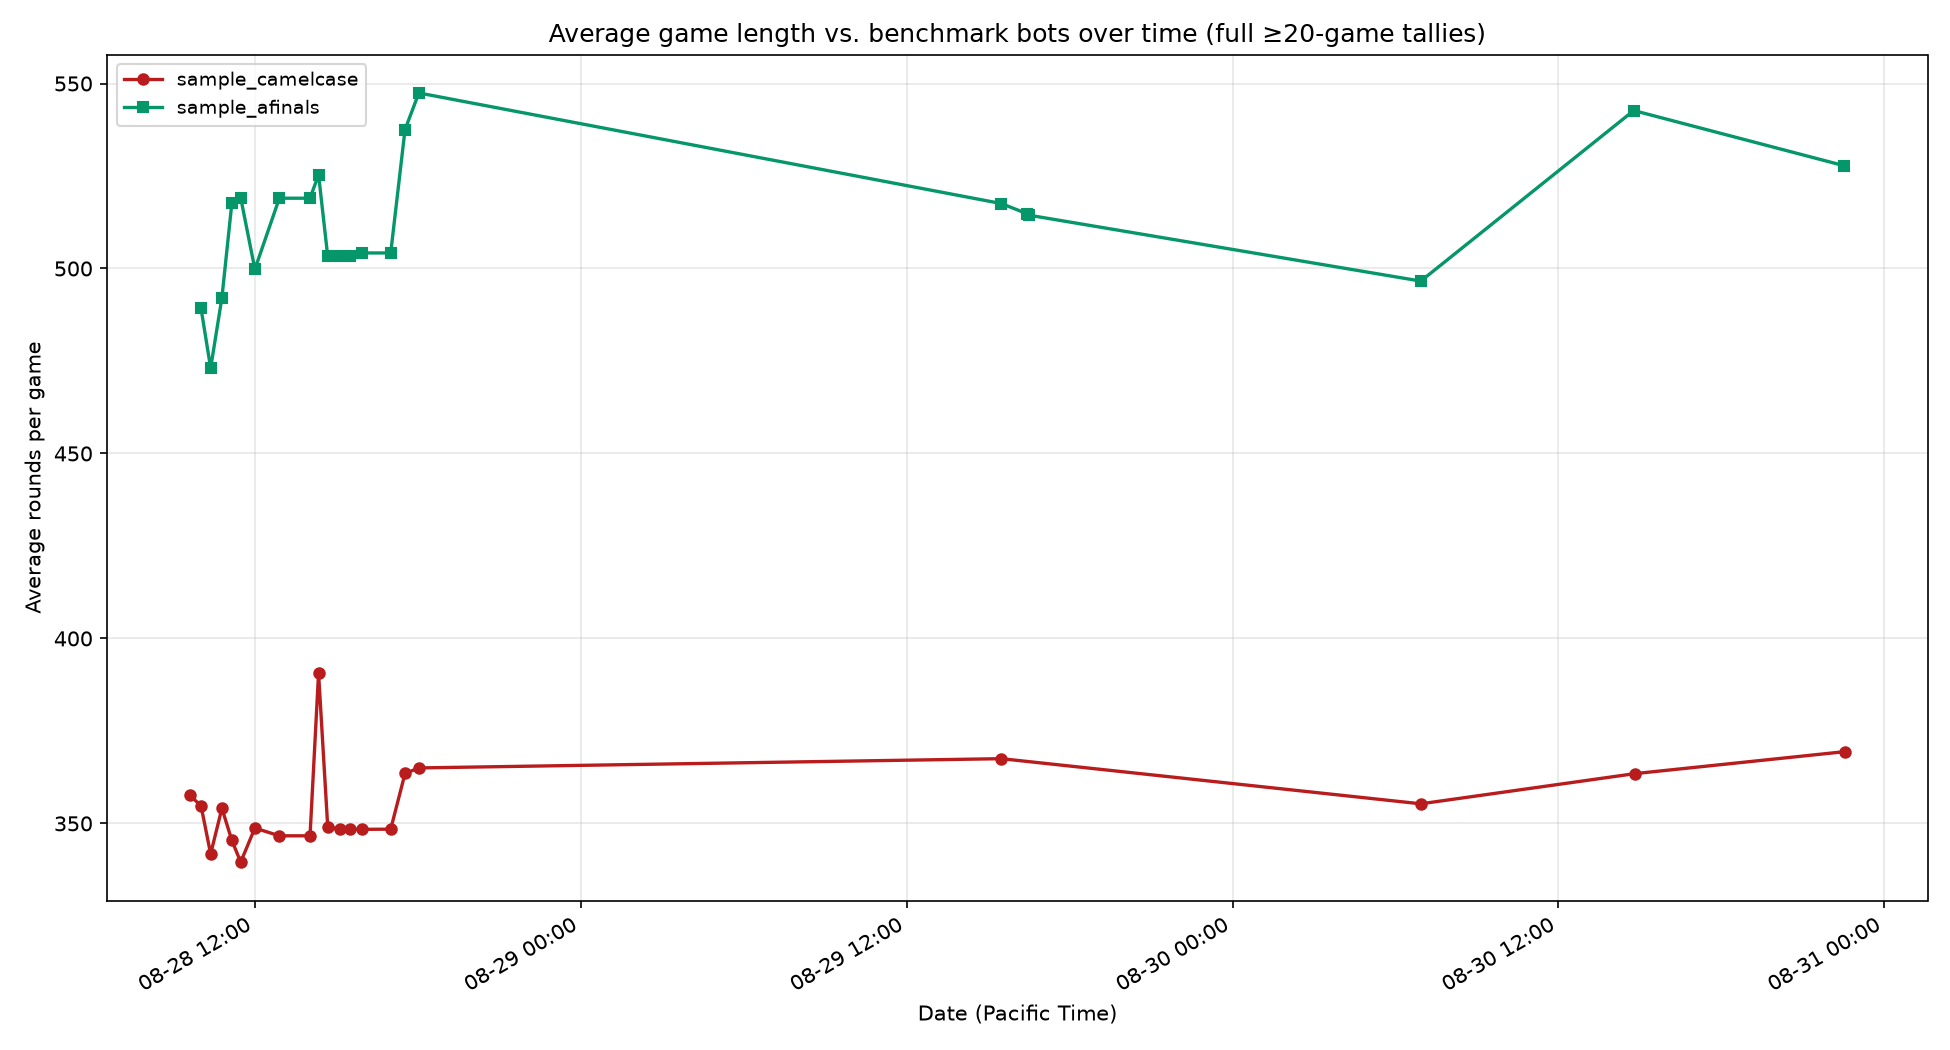
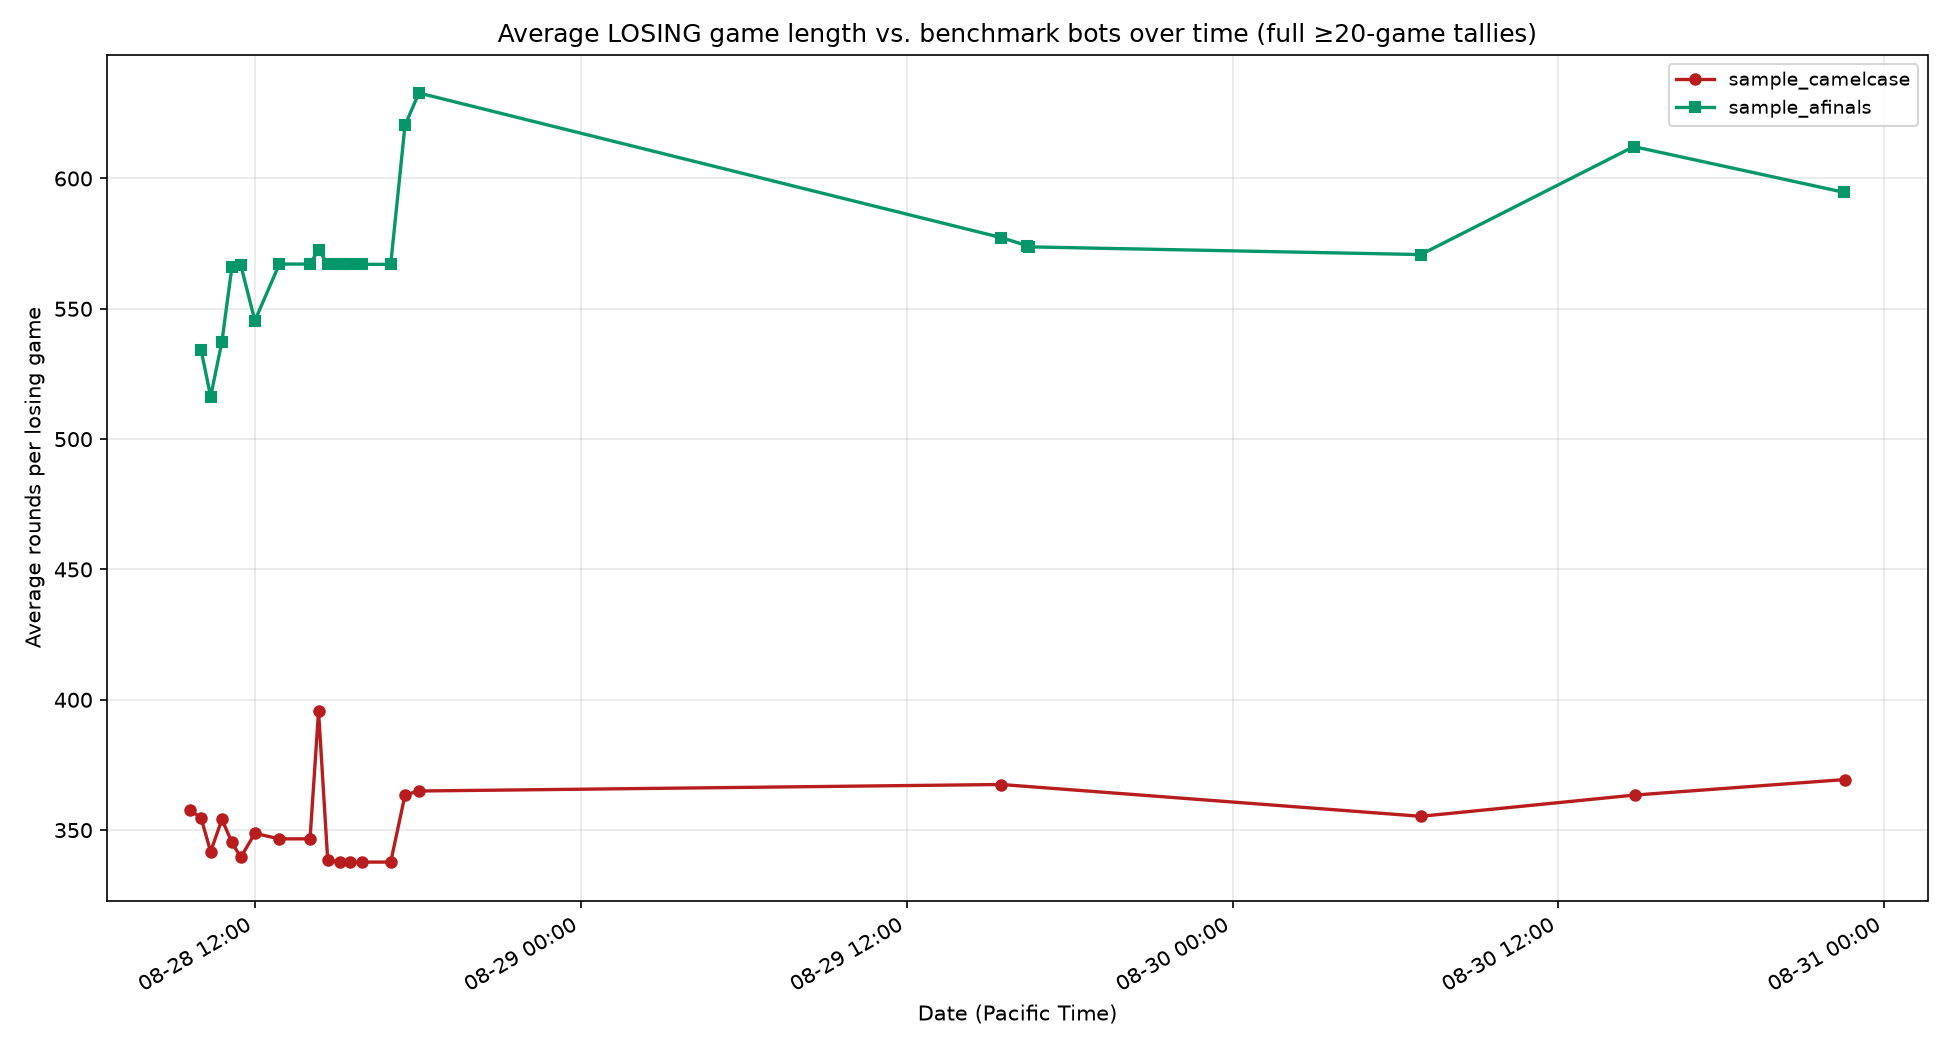
Benchmark game-length chart: losing games only, not all games
A longer win doesn't indicate the same kind of progress as a longer
loss (getting closer to winning) -- mixing them muddied the trend.

diff --git a/tools/plot_alt_metrics.py b/tools/plot_alt_metrics.py
@@ -12,11 +12,15 @@ but retained locally across a session, which is enough history to plot).
    is progress broad (both ends rising together) or lopsided (a growing
    gap between the easiest and hardest peer matchup)?
 
-2. Benchmark game length: average round count per full 20-game
-   benchmark tally (sample_camelcase, sample_afinals), over time.
-   Win/loss alone discards this -- a benchmark game that used to end
-   in 300 rounds and now takes 800 is real progress even while still
-   a loss (see TRAINING_ALGORITHM.md's own "round-count metric" note,
+2. Benchmark game length: average round count of *losing* games only,
+   per full 20-game benchmark tally (sample_camelcase, sample_afinals),
+   over time. Losing-games-only on purpose -- a longer loss is real
+   progress (getting closer to winning), but a longer win isn't the
+   same signal (could just as easily be a slower, messier win), so
+   mixing the two would muddy the trend. Win/loss alone discards this
+   kind of progress -- a loss that used to end in 300 rounds and now
+   takes 800 is real even while still technically a loss (see
+   TRAINING_ALGORITHM.md's own "round-count metric" note,
    same idea applied here to the benchmark bots specifically).
 
 Usage:
@@ -85,22 +89,36 @@ def peer_spread_series():
 
 
 def benchmark_length_series():
-    data = defaultdict(list)  # opponent -> [(timestamp, avg_rounds), ...]
+    # Losing games only: a longer game is only "progress" when it's a loss
+    # that took longer to lose (getting closer to winning). A longer WIN
+    # doesn't indicate improvement the same way -- it could just as easily
+    # mean a slower, messier win, so mixing the two in one average would
+    # muddy the signal this chart is meant to show.
+    data = defaultdict(list)  # opponent -> [(timestamp, avg_losing_rounds), ...]
     for rundir in sorted(Path(REPO_ROOT / "gauntlet").glob("*/")):
         p = rundir / "results.csv"
         if not p.exists():
             continue
-        per_opp_rounds = defaultdict(list)
+        per_opp_total = defaultdict(int)
+        per_opp_loss_rounds = defaultdict(list)
         for row in load_results(p):
             opp = row["opponent"]
             if opp not in BENCHMARK_BOTS:
                 continue
-            per_opp_rounds[opp].append(int(row["rounds"]))
+            per_opp_total[opp] += 1
+            if row["bot_result"] == "loss":
+                per_opp_loss_rounds[opp].append(int(row["rounds"]))
         ts = run_timestamp(rundir)
-        for opp, rounds in per_opp_rounds.items():
-            if len(rounds) < MIN_BENCHMARK_GAMES:
+        for opp, total in per_opp_total.items():
+            # gate "is this a full tally" on the *total* game count (wins
+            # included), not just the loss count, so a strong tally with
+            # few losses isn't penalized for having less loss data.
+            if total < MIN_BENCHMARK_GAMES:
                 continue
-            data[opp].append((ts, sum(rounds) / len(rounds)))
+            losses = per_opp_loss_rounds[opp]
+            if not losses:
+                continue
+            data[opp].append((ts, sum(losses) / len(losses)))
     for opp in data:
         data[opp].sort()
     return data
@@ -146,9 +164,9 @@ def main():
         ys2 = [p[1] for p in pts]
         ax2.plot(xs2, ys2, color=colors.get(opp, "#333"), marker=markers.get(opp, "o"),
                   markersize=5, linewidth=1.6, label=opp)
-    ax2.set_title(f"Average game length vs. benchmark bots over time (full ≥20-game tallies)")
+    ax2.set_title(f"Average LOSING game length vs. benchmark bots over time (full ≥20-game tallies)")
     ax2.set_xlabel("Date (Pacific Time)")
-    ax2.set_ylabel("Average rounds per game")
+    ax2.set_ylabel("Average rounds per losing game")
     ax2.grid(True, alpha=0.3)
     ax2.xaxis.set_major_formatter(mdates.DateFormatter("%m-%d %H:%M", tz=PACIFIC))
     fig2.autofmt_xdate(rotation=30)
